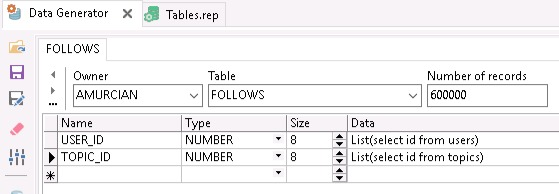
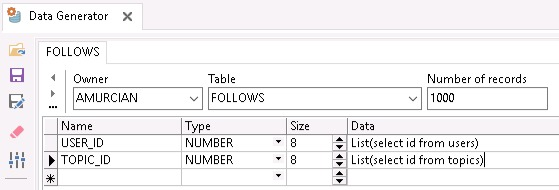
removed most of our data

diff --git a/latex/first-stage/7.data-population.tex b/latex/first-stage/7.data-population.tex
@@ -4,7 +4,7 @@ Now that we have successfully created all the necessary data, it is time to fill
 
 \subsection{Populating Users}
 
-We retrieved a large excel file containing over one hundred thousand users' data from the internet, and using the PL/SQL Developer tool called ODBC importer we imported the data which we needed into the users table. Not all of the columns provided were necessary to us, so figure \ref{users-odbc} shows which columns we used. The excel file which we used can be found in \verb`/data/users/user_list.xlsx`.
+We retrieved a large excel file containing over one hundred thousand users' data from the internet, but since we had no remaining space in the database we had to shrink that file to only one thousand records. Using the PL/SQL Developer tool called ODBC importer we imported the data which we needed into the users table. Not all of the columns provided were necessary to us, so figure \ref{users-odbc} shows which columns we used. The excel file which we used can be found in \verb`/data/users/user_list.xlsx`.
 
 \begin{figure}[hbtp]
 	\centering
@@ -15,13 +15,13 @@ We retrieved a large excel file containing over one hundred thousand users' data
 
 \subsection{Populating Posts}
 
-Since this table only contains one column, and that column's value was always generated by the database, this simple script was enough to insert the required number of post IDs into the post table.
+Since this table only contains one column, and that column's value was always generated by the database, this simple script was enough to insert the required number of post IDs into the post table. We originally had inserted over 200,000 but due to severe space constraints we reduced this to 3,000.
 
 \VerbatimInput[label=\fbox{\color{Black}/sql/insert/posts.sql}]{../../sql/insert/posts.sql}
 
 \subsection{Populating Questions}
 
-We were able to obtain a CSV file containing all of the questions which were asked on \LaTeX\ Stack Exchange between January 2010 and September 2020. After appending an ID from those which we inserted into the \verb`posts` table to each row, and removing all columns which we do not need, we ran the text importer tool in PL/SQL Developer to add all of the data in the CSV file into the \verb`questions` table.
+We were able to obtain a CSV file containing all of the questions which were asked on \LaTeX\ Stack Exchange between January 2010 and September 2020. Since we were restricted on space, we manipulated the CSV file using spreadsheet software to keep only the 1000 shortest questions. After appending an ID from those which we inserted into the \verb`posts` table to each row, and removing all columns which we do not need, we ran the text importer tool in PL/SQL Developer to add all of the data in the CSV file into the \verb`questions` table.
 
 Figure \ref{questions-text-import} shows the configurations for the text importer which was used to import the questions from our CSV file.
 
@@ -34,6 +34,10 @@ Figure \ref{questions-text-import} shows the configurations for the text importe
 	\label{questions-text-import}
 \end{figure}
 
+\subsection{Populating Answers}
+
+
+
 \subsection{Populating Topics}
 
 We were able to find a large list with 1,547 topics which Quora uses to organise their questions. We obtained it in the form of a plain text file with one line for each topic name. Since it contains duplicates, we can must first remove these. Then we generate some randomised description using the python module called \verb`lorem`. This python code shows exactly how the insert statements were generated. The generated SQL code can be found at \verb`/sql/insert/topics.sql`
@@ -42,7 +46,7 @@ We were able to find a large list with 1,547 topics which Quora uses to organise
 
 \subsection{Populating Follows}
 
-This table was populated using the text importer tool in PL/SQL Developer. We asked the system to generate a number from the users' ID column for the foreign key to that row, and similar for the other foreign key. Figure \ref{follows-generator} shows the settings we used to generate 600,000 rows.
+This table was populated using the data generator tool in PL/SQL Developer. We asked the system to generate a number from the users' ID column for the foreign key to that row, and similarly for the other foreign key. Figure \ref{follows-generator} shows the settings we used to generate 1000 rows.
 
 \begin{figure}[hbp]
 	\centering
